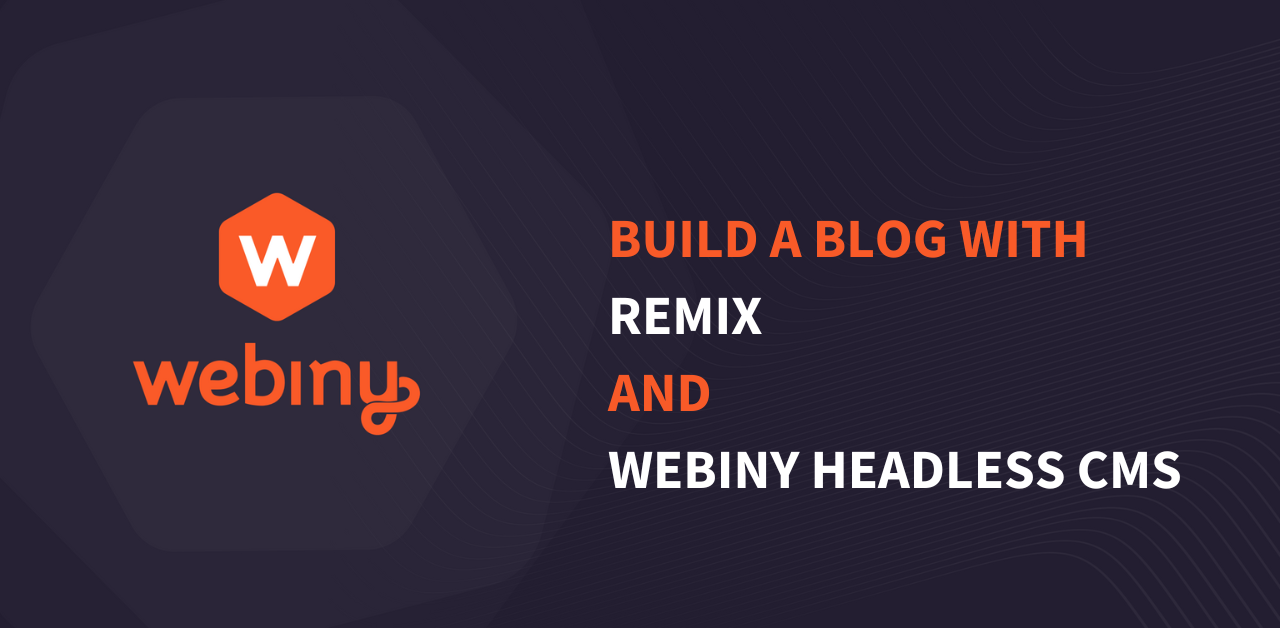
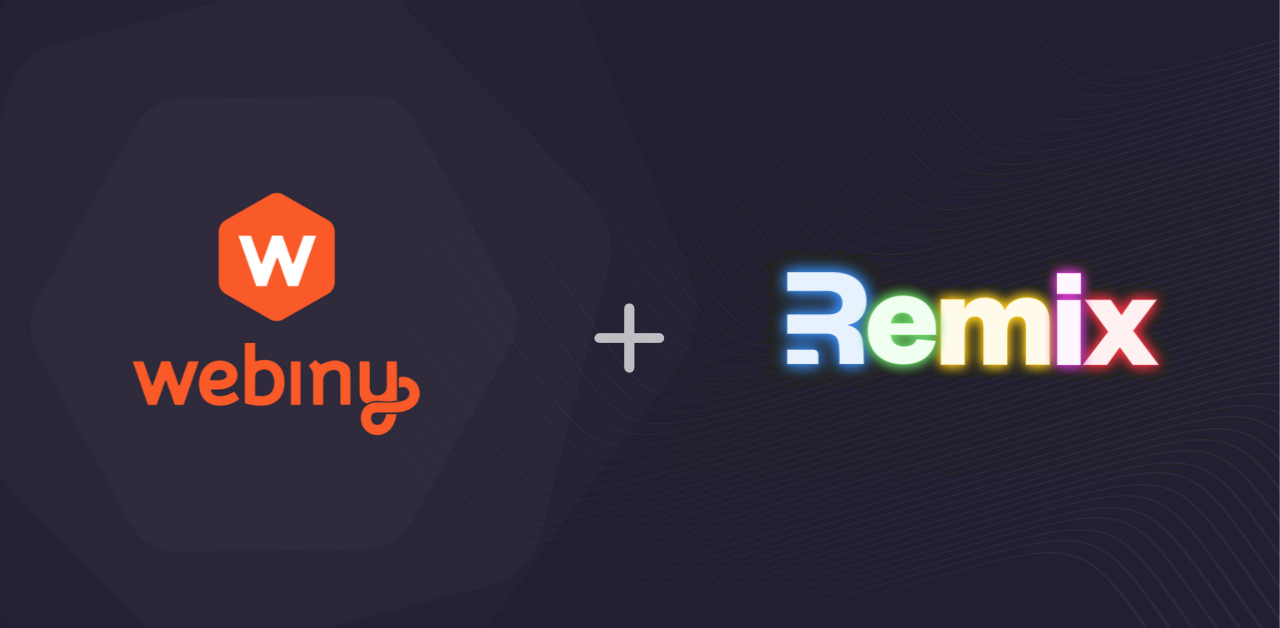
Fix(blog): correct layout overflow and blog card image crop issues (#164)
* chore(blogposts): add tech logos to articles

* fix(blog): fix content overflow & image crop issues

* fix(blogposts): fix remix cover

* fix(blogposts): refine blog cover graphics

* fix(blogposts): rm dup title

Changed region(s): [[0.4688, 0.3328, 0.9062, 0.6656], [0.4688, 0.6959, 0.9375, 0.7866], [0.125, 0.6051, 0.1562, 0.6354]]

diff --git a/src/components/blog/blog-styles.js b/src/components/blog/blog-styles.js
@@ -276,7 +276,7 @@ export const mediaWrapperClass = css(
         },
     },
     mq({
-        gridTemplateColumns: ["repeat(1, 1fr)", "repeat(3, 1fr)"],
+        gridTemplateColumns: ["repeat(1, 1fr)", "repeat(2, 1fr)", "repeat(3, 1fr)"],
         gridGap: ["40px 0px", "60px 60px"],
     }),
 );

diff --git a/src/components/blog/components/blog-card.js b/src/components/blog/components/blog-card.js
@@ -39,7 +39,6 @@ const BlogCardWrapper = styled("div")(
         },
 
         "& .media-wrapper": {
-            height: 174,
             "& .gatsby-image-wrapper": {
                 width: "100%",
                 height: "100%",
